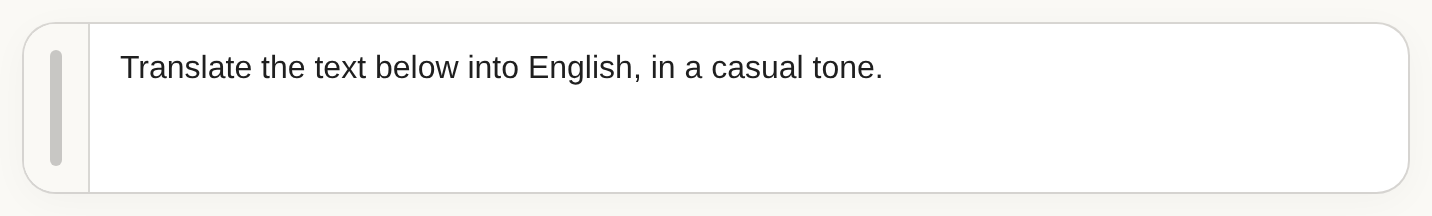
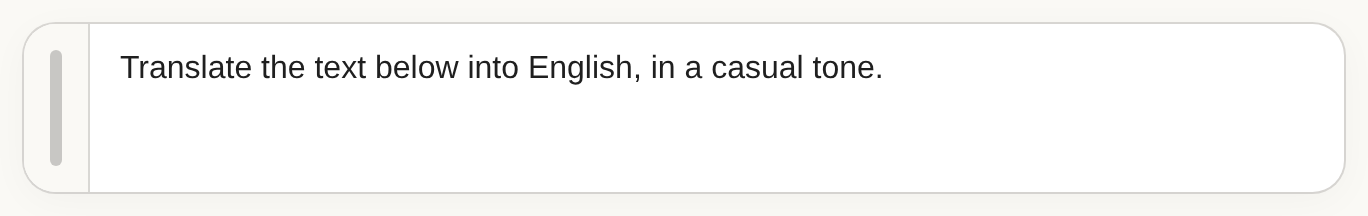
v1.4.0：把手改為往卡片內縮——卡片維持網站原大小，內容往右讓出 W（原本往左撐大凸出）；規格 5.2、回歸測試、README 截圖同步
Claude-Session: https://claude.ai/code/session_01WRELcUYni3YTM4WZLs5phr

Changed region(s): [[0.0307, 0.25, 0.6447, 0.75]]

diff --git a/prompt_popout.user.js b/prompt_popout.user.js
@@ -2,7 +2,7 @@
 // @name               Prompt Popout
 // @name:zh-TW         Prompt Popout 提示詞快選
 // @namespace          https://github.com/bgtsai
-// @version            1.3.1
+// @version            1.4.0
 // @author             bgtsai
 // @description        Adds a handle to the left of AI chat inputs; hover it to pop out your saved prompts and click one to insert it.
 // @description:zh-TW  在 AI 聊天輸入框左側加一個把手，滑過即彈出已存的提示詞清單，點選即填入。
@@ -419,13 +419,10 @@
 
   const CSS = `
 .pp-card {
-  margin-left: calc(-1 * var(--pp-w)) !important;
-  width: calc(100% + var(--pp-w)) !important;
-  max-width: none !important;
+  /* v1.4.0 起卡片不撐大：外框維持網站原本的大小與位置，把手佔卡片內最左邊 W 寬，
+     原本的內容靠加大左內距往右讓位。（v1.3.x 是 margin-left:-W＋width:100%+W 往外長出一塊）
+     不設 box-sizing：沿用網站自己的盒模型，寬度是 auto 時加內距不會撐大外框。 */
   padding-left: calc(var(--pp-w) + var(--pp-pl)) !important;
-  /* border-box：寬度 100%+W 要把加大的左內距算在裡面，右緣與文字寬度才不動。
-     網站若是 content-box（未全域設 border-box），不加這行卡片會往右多凸出「W＋左右內距」。 */
-  box-sizing: border-box !important;
 }
 .pp-card.pp-card-static { position: relative !important; }
 .pp-card::before {

diff --git a/tests/regress.js b/tests/regress.js
@@ -128,7 +128,12 @@ async function runSite(engineName, browser, site) {
   const W = radius * 2;
   check(`${tag} 卡片加上 pp- class`, /\bpp-/.test(cb.cls), cb.cls);
   check(`${tag} 卡片右緣不動`, Math.abs(cb.right - before.right) < 1.5, { now: cb.right, before: before.right });
-  check(`${tag} 卡片往左長出 2R=${W}px`, Math.abs((cb.right - cb.left) - (1100 - 240) - W) < 1.5, { width: cb.right - cb.left, expected: 1100 - 240 + W });
+  check(`${tag} 卡片左緣不動（不往外撐大）`, Math.abs(cb.left - 120) < 1.5, { now: cb.left, before: 120 });
+  check(`${tag} 卡片寬度不變`, Math.abs((cb.right - cb.left) - (1100 - 240)) < 1.5, { width: cb.right - cb.left, expected: 1100 - 240 });
+  const { inputLeft, bl } = await page.evaluate(() => ({
+    inputLeft: document.querySelector('[contenteditable="true"]').getBoundingClientRect().left,
+    bl: parseFloat(getComputedStyle(document.querySelector('.card')).borderLeftWidth) || 0 }));
+  check(`${tag} 輸入內容往右讓出 2R=${W}px`, Math.abs(inputLeft - (120 + bl + 16 + W)) < 1.5, { inputLeft, expected: 120 + bl + 16 + W });
   check(`${tag} 燈條寬 6px`, cb.afterW === '6px', cb.afterW);
   check(`${tag} 燈條 left=R-3`, Math.abs(parseFloat(cb.afterL) - (radius - 3)) < 0.6, cb.afterL);
   check(`${tag} 燈條 top=R-3`, Math.abs(parseFloat(cb.afterT) - (radius - 3)) < 0.6, cb.afterT);

diff --git a/docs/SPEC.zh-TW.md b/docs/SPEC.zh-TW.md
@@ -62,13 +62,15 @@
 - 換了卡片：舊卡片移除 class。
 - 網站（React）重繪可能把 className 整個覆蓋，所以每影格檢查，class 不見就補回。只加 class 與 inline CSS 變數，**不搬動、不包裝、不改網站元素的內容**。
 
-### 5.2 卡片撐大（從底層讓網站自己畫框）
+### 5.2 內容讓位（卡片不撐大，v1.4.0 起）
 
 令 R＝卡片左上角圓角（`getComputedStyle` 讀，四捨五入取整；讀不到用 14）。區塊寬 W＝2R。
 
-- 對卡片加 class（例如 `pp-card`），CSS：`margin-left:-W; width:calc(100% + W); max-width:none; padding-left:calc(W + 原左內距)`，全部 `!important`。效果：卡片右緣與文字位置不動，左邊長出 W 寬的一塊；**卡片的框線、陰影、圓角全由網站自己畫**，我們不畫任何外框。
+- 對卡片加 class（例如 `pp-card`），CSS 只有一條：`padding-left:calc(W + 原左內距) !important`。效果：卡片外框維持網站原本的大小與位置，把手佔卡片內最左邊 W 寬，原本的內容（輸入框、按鈕等）往右讓出 W；**卡片的框線、陰影、圓角全由網站自己畫**，我們不畫任何外框。
+- 不設 `box-sizing`、`width`、`margin`：沿用網站自己的盒模型，寬度 auto 時加內距不會撐大外框。
 - 「原左內距」與 R 必須在第一次加 class **之前**讀（加了以後讀到的是自己改過的值），存成 inline CSS 變數。
 - R 之後可每秒重讀（網站介面縮放會改圓角）。
+- v1.3.x 的舊做法是 `margin-left:-W; width:calc(100% + W); max-width:none` 讓卡片往左長出 W，把手凸在原輸入框外；使用者 2026-10-23 改為往內縮。
 
 ### 5.3 區塊（卡片 `::before`）
 
